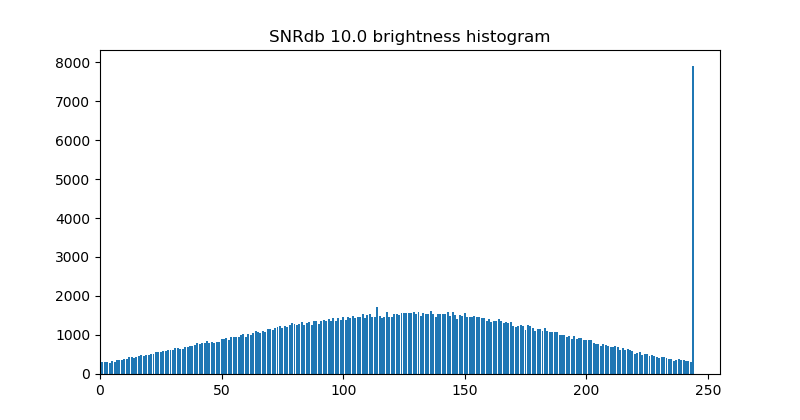
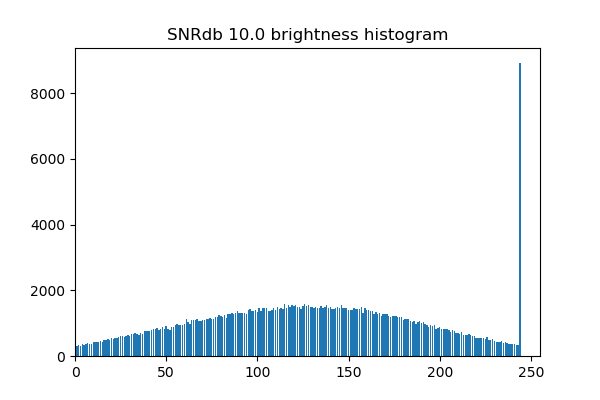
init

diff --git a/main.py b/main.py
@@ -8,18 +8,20 @@ origin_image = IL("lenna.png")()
 # change to gray scale.
 origin_image_gray = 0.2989 * origin_image[:, :, 0] + 0.5870 * origin_image[:, :, 1] + 0.1140 * origin_image[:, :, 2]
 
+entropy_list = []
+
 # ===================================== ADD GAUSSIAN NOISE =====================================
 # stdev = 44.02  # SNR_db ~ 10 (SNR : 10)
 # stdev = 13.3  # SNR_db ~ 20 (SNR : 100)
 # stdev = 4.21  # SNR_db ~ 30 (SNR : 1000)
 
-SNRdb_10_20_30_stdev = {"10": 44.02, "20": 13.3, "30": 4.21}
+SNRdb_10_20_30_stdev = {"10": 46.5, "20": 13.32, "30": 4.2}
 
 for SNR_db in SNRdb_10_20_30_stdev:
     stdev = SNRdb_10_20_30_stdev[SNR_db]
 
     G_1 = np.max(origin_image_gray)
-    print("G-1 = {}".format(G_1))
+    # print("G-1 = {}".format(G_1))
 
     # Box-Muller transform
     f_z1 = lambda x, y, z: (z * np.cos(2 * np.pi * y)) * np.sqrt(-2 * np.log(x))
@@ -55,7 +57,7 @@ for SNR_db in SNRdb_10_20_30_stdev:
                 noise_added[_x, _y + 1] = additive_pixel_cal(origin_image_gray[_x, _y + 1], z2, G_1)
 
     E = np.mean(np.square(noise_added - origin_image_gray))
-    F = np.mean(np.square(origin_image_gray))
+    F = np.mean(np.square(noise_added))
 
     SNR = F / E
 
@@ -78,9 +80,39 @@ for SNR_db in SNRdb_10_20_30_stdev:
     h_f = np.zeros(256)
     for _x in range(noise_added.shape[0]):
         for _y in range(noise_added.shape[1]):
+            # increment by 1
             h_f[int(noise_added[_x, _y])] += 1
+
+    plt.rcParams["figure.figsize"] = (6, 4)
     plt.title("SNRdb {0:0.1f} brightness histogram".format(10 * np.log10(SNR)))
     plt.bar(list(range(len(h_f))), h_f)
     plt.xlim([0, 255])
     plt.savefig("./SNRdb{}_histogram.png".format(SNR_db))
     plt.show()
+
+
+    # ===================================== CALCULATE ENTROPY =====================================
+    def cal_entropy(probability_density):
+        # remove zero probability and normalize.
+        # sum of probability = 1
+        probability_density_normalize = np.delete(probability_density, np.where(probability_density == 0.)) / np.sum(
+            probability_density)
+
+        entropy = -np.sum(probability_density_normalize * np.log2(probability_density_normalize))
+        return entropy
+
+
+    print("entropy H(X) :", cal_entropy(h_f))
+    entropy_list.append(cal_entropy(h_f))
+
+plt.rcParams["figure.figsize"] = (5, 4)
+axes = plt.gca()
+plt.title("Entropy by normalized histogram")
+plt.bar(list(range(len(entropy_list))), entropy_list, hatch="///", color="white", linewidth=1, edgecolor="black",
+        width=0.6)
+plt.xticks(np.arange(3), ["SNRdb:10", "SNRdb:20", "SNRdb:30"])
+for i in range(3):
+    axes.text(i, entropy_list[i] + 0.012, str(entropy_list[i])[:6], ha='center', size=12, weight="bold", style="italic")
+plt.ylim([7.2, 7.8])
+plt.savefig("./Entropy.png")
+plt.show()
